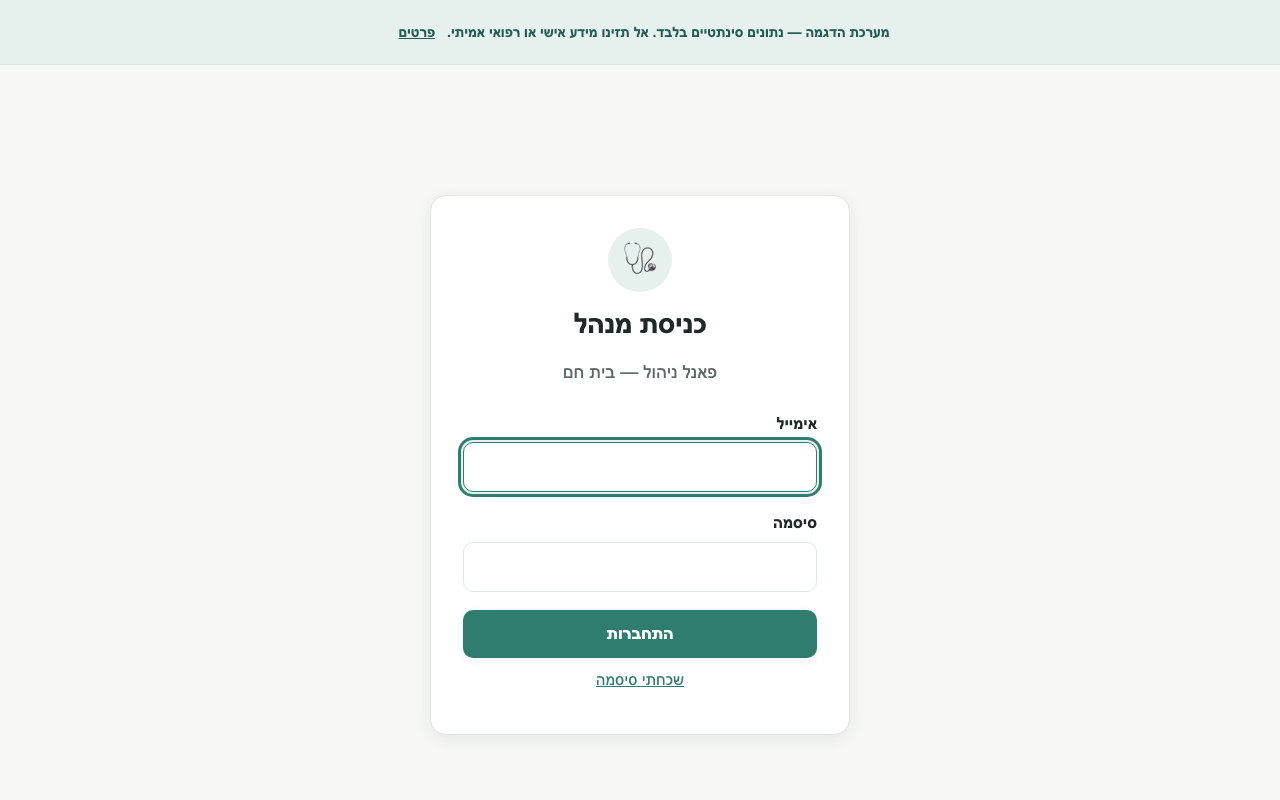
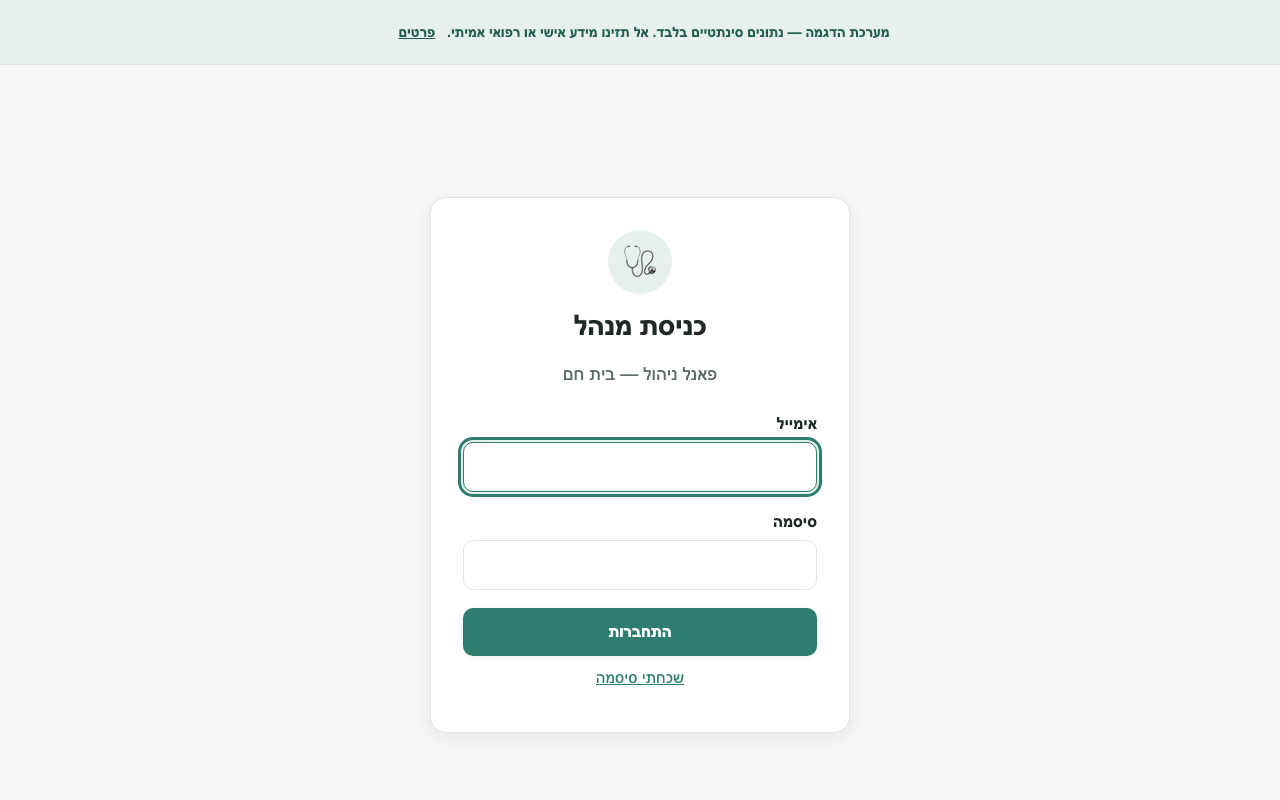
Restore the previous typography (fonts and sizes); drop service descriptions
Owner declined the redesign and asked for the old font and sizes:
Inter/Manrope stacks and the 11839eb font-size/weight/line-height values;
role cards no longer carry explanatory text. SW cache v20.

diff --git a/public/styles.css b/public/styles.css
@@ -20,8 +20,8 @@
   --shadow: 0 4px 16px rgba(31, 42, 40, 0.08);
   --shadow-lg: 0 14px 36px rgba(31, 42, 40, 0.14);
   --transition: 0.18s ease;
-  --font-body: "Heebo", "Inter", "Segoe UI", Arial, sans-serif;
-  --font-head: "Heebo", "Inter", "Segoe UI", Arial, sans-serif;
+  --font-body: "Inter", "Segoe UI", Arial, sans-serif;
+  --font-head: "Manrope", "Segoe UI", Arial, sans-serif;
 }
 
 * { box-sizing: border-box; }
@@ -74,13 +74,13 @@ html, body {
   color: var(--text);
   font-family: var(--font-body);
   font-size: 18px;
-  line-height: 1.6;
+  line-height: 1.5;
   direction: rtl;
 }
 
 h1, h2, h3 { font-family: var(--font-head); margin: 0 0 8px; line-height: 1.15; letter-spacing: -0.01em; }
-h1 { font-size: 28px; font-weight: 700; }
-h2 { font-size: 24px; font-weight: 700; }
+h1 { font-size: 28px; font-weight: 800; }
+h2 { font-size: 22px; font-weight: 700; }
 h3 { font-size: 18px; font-weight: 700; }
 
 a { color: var(--primary); }
@@ -231,7 +231,7 @@ label:has(> input[type="checkbox"]), label:has(> input[type="radio"]) {
   gap: 8px;
   min-height: 48px;
   padding: 14px 24px;
-  font-size: 17px;
+  font-size: 16px;
   font-weight: 700;
   font-family: var(--font-body);
   border-radius: var(--radius-sm);
@@ -765,8 +765,8 @@ section { margin-bottom: 48px; }
   display: block;
   font-family: var(--font-head);
   font-weight: 800;
-  font-size: clamp(26px, 4.5vw, 38px);
-  line-height: 1.3;
+  font-size: 26px;
+  line-height: 1.25;
   color: var(--accent-dark);
   margin-bottom: 12px;
   padding-inline: 6px;
@@ -776,12 +776,12 @@ section { margin-bottom: 48px; }
   max-width: 100%;
 }
 .hero h1 {
-  font-size: 38px;
+  font-size: 34px;
   margin: 0 0 12px;
   color: var(--primary-dark);
 }
 .hero-subtitle {
-  font-size: 18px;
+  font-size: 17px;
   line-height: 1.6;
   color: var(--text-muted);
   margin: 0 0 22px;
@@ -790,7 +790,7 @@ section { margin-bottom: 48px; }
   display: inline-flex;
   width: auto;
   padding: 16px 36px;
-  font-size: 18px;
+  font-size: 17px;
 }
 .hero-emergency {
   margin: 14px 0 0;
@@ -832,7 +832,7 @@ section { margin-bottom: 48px; }
 }
 .services-section h2, .why-us-band h2, .how-it-works h2 {
   text-align: center;
-  font-size: 24px;
+  font-size: 26px;
   margin-bottom: 28px;
 }
 
@@ -871,7 +871,7 @@ section { margin-bottom: 48px; }
   display: flex;
   align-items: center;
   justify-content: center;
-  font-size: 28px;
+  font-size: 26px;
   background: var(--primary-light);
   border-radius: var(--radius);
   margin-bottom: 12px;
@@ -892,7 +892,7 @@ section { margin-bottom: 48px; }
   display: flex;
   align-items: center;
   justify-content: center;
-  font-size: 26px;
+  font-size: 21px;
   background: var(--primary-light);
   border: none;
   border-radius: 50%;
@@ -919,7 +919,7 @@ section { margin-bottom: 48px; }
   justify-content: center;
   font-weight: 700;
   font-family: var(--font-head);
-  font-size: 18px;
+  font-size: 14px;
   margin: 0 auto 14px;
 }
 .how-step-title { font-weight: 700; font-size: 17px; margin-bottom: 6px; }
@@ -952,7 +952,7 @@ section { margin-bottom: 48px; }
 
 @media (max-width: 560px) {
   .hero { padding: 28px 20px 28px; margin-top: 16px; border-radius: var(--radius); }
-  .hero-eyebrow { font-size: clamp(22px, 6vw, 28px); }
+  .hero-eyebrow { font-size: 20px; }
   .hero h1 { font-size: 28px; }
   .hero-subtitle { font-size: 17px; }
   html, body { font-size: 16px; }

diff --git a/public/index.html b/public/index.html
@@ -6,7 +6,7 @@
 <meta name="viewport" content="width=device-width, initial-scale=1.0">
 <title data-i18n="index.title">בית חם — טיפול רפואי עד הבית</title>
 <link rel="preconnect" href="https://fonts.googleapis.com">
-<link href="https://fonts.googleapis.com/css2?family=Heebo:wght@400;500;700&family=Inter:wght@400;600;700&family=Cairo:wght@400;600;700&display=swap" rel="stylesheet">
+<link href="https://fonts.googleapis.com/css2?family=Inter:wght@400;600;700&family=Manrope:wght@700;800&family=Cairo:wght@400;600;700&display=swap" rel="stylesheet">
 <link rel="stylesheet" href="styles.css">
 <link rel="manifest" href="manifest.json">
 <meta name="theme-color" content="#2f7d6e">
@@ -196,7 +196,6 @@
       card.innerHTML = `
         <div class="service-icon">${ROLE_ICONS_LOCAL[role] || "🏠"}</div>
         <div class="service-title">${roleLabel(role)}</div>
-        <div class="service-desc">${roleDescription(role)}</div>
         <div class="service-link">${t("index.serviceLinkText")}</div>
       `;
       grid.appendChild(card);

diff --git a/public/staff.html b/public/staff.html
@@ -6,7 +6,7 @@
 <meta name="viewport" content="width=device-width, initial-scale=1.0">
 <title data-i18n="staff.title">בית חם — בחירת אחות או אח</title>
 <link rel="preconnect" href="https://fonts.googleapis.com">
-<link href="https://fonts.googleapis.com/css2?family=Heebo:wght@400;500;700&family=Inter:wght@400;600;700&family=Cairo:wght@400;600;700&display=swap" rel="stylesheet">
+<link href="https://fonts.googleapis.com/css2?family=Inter:wght@400;600;700&family=Manrope:wght@700;800&family=Cairo:wght@400;600;700&display=swap" rel="stylesheet">
 <link rel="stylesheet" href="styles.css">
 <link rel="manifest" href="manifest.json">
 <meta name="theme-color" content="#2f7d6e">

diff --git a/public/my-bookings.html b/public/my-bookings.html
@@ -6,7 +6,7 @@
 <meta name="viewport" content="width=device-width, initial-scale=1.0">
 <title data-i18n="myBookings.title">בית חם — ההזמנות שלי</title>
 <link rel="preconnect" href="https://fonts.googleapis.com">
-<link href="https://fonts.googleapis.com/css2?family=Heebo:wght@400;500;700&family=Inter:wght@400;600;700&family=Cairo:wght@400;600;700&display=swap" rel="stylesheet">
+<link href="https://fonts.googleapis.com/css2?family=Inter:wght@400;600;700&family=Manrope:wght@700;800&family=Cairo:wght@400;600;700&display=swap" rel="stylesheet">
 <link rel="stylesheet" href="styles.css">
 <link rel="manifest" href="manifest.json">
 <meta name="theme-color" content="#2f7d6e">

diff --git a/public/booking.html b/public/booking.html
@@ -6,7 +6,7 @@
 <meta name="viewport" content="width=device-width, initial-scale=1.0">
 <title data-i18n="booking.title">בית חם — קביעת תור</title>
 <link rel="preconnect" href="https://fonts.googleapis.com">
-<link href="https://fonts.googleapis.com/css2?family=Heebo:wght@400;500;700&family=Inter:wght@400;600;700&family=Cairo:wght@400;600;700&display=swap" rel="stylesheet">
+<link href="https://fonts.googleapis.com/css2?family=Inter:wght@400;600;700&family=Manrope:wght@700;800&family=Cairo:wght@400;600;700&display=swap" rel="stylesheet">
 <link rel="stylesheet" href="styles.css">
 <link rel="manifest" href="manifest.json">
 <meta name="theme-color" content="#2f7d6e">

diff --git a/public/employee-login.html b/public/employee-login.html
@@ -5,7 +5,7 @@
 <meta name="viewport" content="width=device-width, initial-scale=1.0">
 <title>בית חם — כניסת צוות רפואי</title>
 <link rel="preconnect" href="https://fonts.googleapis.com">
-<link href="https://fonts.googleapis.com/css2?family=Heebo:wght@400;500;700&family=Inter:wght@400;600;700&display=swap" rel="stylesheet">
+<link href="https://fonts.googleapis.com/css2?family=Inter:wght@400;600;700&family=Manrope:wght@700;800&display=swap" rel="stylesheet">
 <link rel="stylesheet" href="styles.css">
 <link rel="manifest" href="manifest.json">
 <meta name="theme-color" content="#2f7d6e">

diff --git a/public/employee.html b/public/employee.html
@@ -5,7 +5,7 @@
 <meta name="viewport" content="width=device-width, initial-scale=1.0">
 <title>בית חם — כניסת צוות רפואי</title>
 <link rel="preconnect" href="https://fonts.googleapis.com">
-<link href="https://fonts.googleapis.com/css2?family=Heebo:wght@400;500;700&family=Inter:wght@400;600;700&display=swap" rel="stylesheet">
+<link href="https://fonts.googleapis.com/css2?family=Inter:wght@400;600;700&family=Manrope:wght@700;800&display=swap" rel="stylesheet">
 <link rel="stylesheet" href="styles.css">
 <link rel="manifest" href="manifest.json">
 <meta name="theme-color" content="#2f7d6e">

diff --git a/public/admin.html b/public/admin.html
@@ -5,7 +5,7 @@
 <meta name="viewport" content="width=device-width, initial-scale=1.0">
 <title>בית חם — פאנל ניהול</title>
 <link rel="preconnect" href="https://fonts.googleapis.com">
-<link href="https://fonts.googleapis.com/css2?family=Heebo:wght@400;500;700&family=Inter:wght@400;600;700&display=swap" rel="stylesheet">
+<link href="https://fonts.googleapis.com/css2?family=Inter:wght@400;600;700&family=Manrope:wght@700;800&display=swap" rel="stylesheet">
 <link rel="stylesheet" href="styles.css">
 <link rel="manifest" href="manifest.json">
 <meta name="theme-color" content="#2f7d6e">

diff --git a/public/demo-notice.html b/public/demo-notice.html
@@ -6,7 +6,7 @@
 <meta name="robots" content="noindex, nofollow">
 <title>בית חם — גרסת הדגמה</title>
 <link rel="preconnect" href="https://fonts.googleapis.com">
-<link href="https://fonts.googleapis.com/css2?family=Heebo:wght@400;500;700&display=swap" rel="stylesheet">
+<link href="https://fonts.googleapis.com/css2?family=Inter:wght@400;600;700&family=Manrope:wght@700;800&display=swap" rel="stylesheet">
 <link rel="stylesheet" href="styles.css">
 <link rel="icon" href="favicon-32.png" sizes="32x32">
 </head>

diff --git a/public/service-worker.js b/public/service-worker.js
@@ -5,7 +5,7 @@
 // API תמיד הולכות ישירות לרשת. שמירת טיוטות אופליין (visit_reports) מטופלת בנפרד
 // ב-app.js (תור-סנכרון מפורש ב-localStorage), לא כאן.
 
-const CACHE_VERSION = "home-care-crm-shell-v19";
+const CACHE_VERSION = "home-care-crm-shell-v20";
 
 const APP_SHELL = [
   "index.html",
